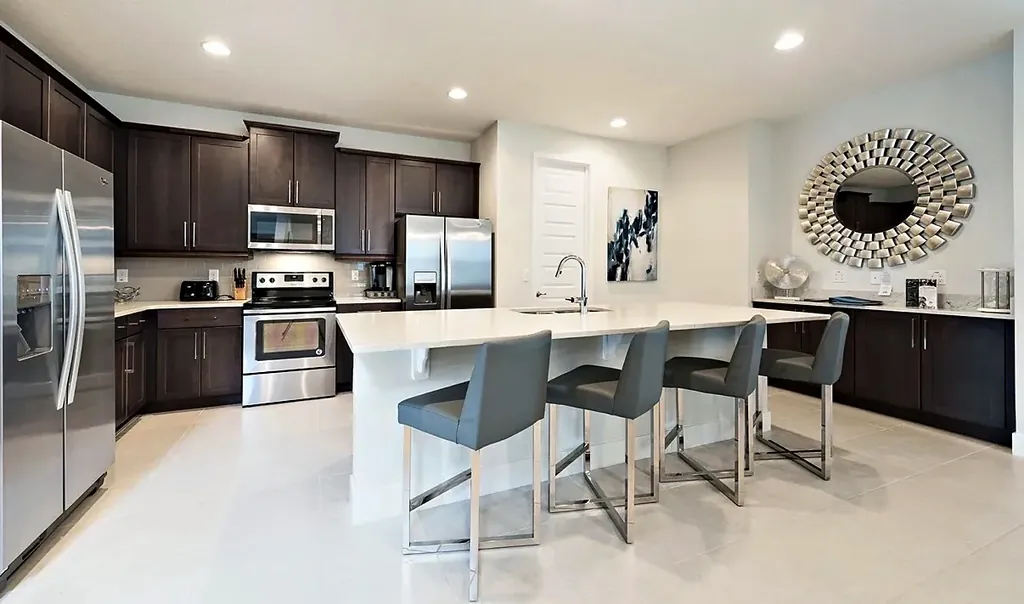
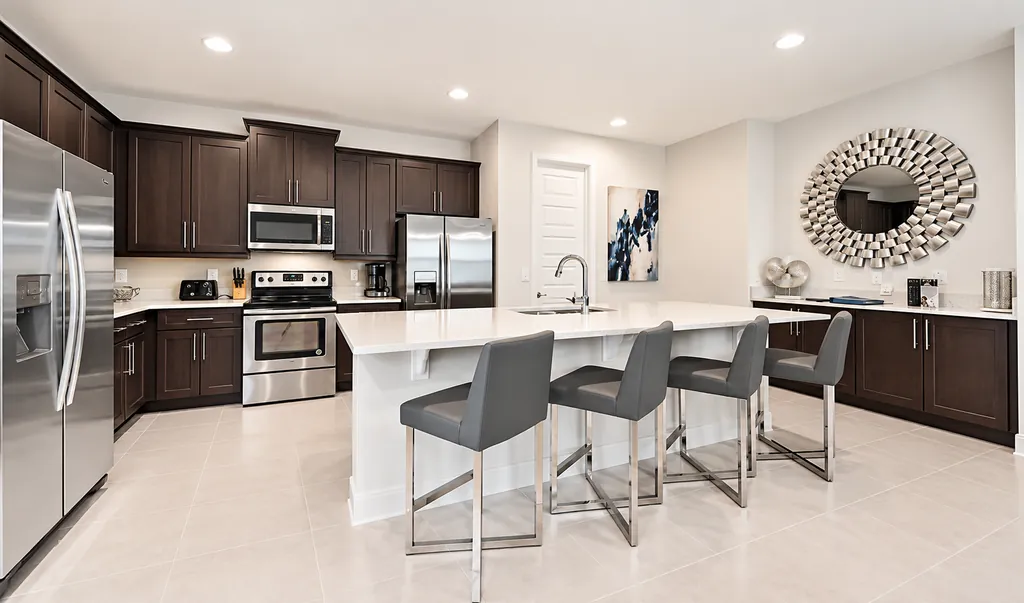
Replace kitchen photo with the enhanced version

diff --git a/index.html b/index.html
@@ -9,7 +9,7 @@
 
   <meta property="og:title" content="Villa Serena · 8-Bedroom Private Pool Villa">
   <meta property="og:description" content="8 bedrooms · 8 bathrooms · 13 beds · private pool. Book your family's Orlando stay direct.">
-  <meta property="og:image" content="assets/img/pool-lanai.jpg?v=19">
+  <meta property="og:image" content="assets/img/pool-lanai.jpg?v=20">
   <meta property="og:type" content="website">
 
   <link rel="icon" href="assets/favicon.svg" type="image/svg+xml">
@@ -17,8 +17,8 @@
   <link rel="preconnect" href="https://fonts.gstatic.com" crossorigin>
   <link href="https://fonts.googleapis.com/css2?family=Newsreader:ital,opsz,wght@0,6..72,400;0,6..72,500;1,6..72,400&family=Instrument+Sans:wght@400;500;600&display=swap" rel="stylesheet">
 
-  <link rel="preload" as="image" href="assets/img/pool-lanai-1616.webp?v=19"
-        imagesrcset="assets/img/pool-lanai-640.webp?v=19 640w, assets/img/pool-lanai-1024.webp?v=19 1024w, assets/img/pool-lanai-1616.webp?v=19 1616w"
+  <link rel="preload" as="image" href="assets/img/pool-lanai-1616.webp?v=20"
+        imagesrcset="assets/img/pool-lanai-640.webp?v=20 640w, assets/img/pool-lanai-1024.webp?v=20 1024w, assets/img/pool-lanai-1616.webp?v=20 1616w"
         imagesizes="100vw" type="image/webp">
   <link rel="stylesheet" href="css/styles.css">
 </head>
@@ -79,9 +79,9 @@
   <div class="hero-media">
     <picture>
       <source type="image/webp"
-              srcset="assets/img/pool-lanai-640.webp?v=19 640w, assets/img/pool-lanai-1024.webp?v=19 1024w, assets/img/pool-lanai-1616.webp?v=19 1616w"
+              srcset="assets/img/pool-lanai-640.webp?v=20 640w, assets/img/pool-lanai-1024.webp?v=20 1024w, assets/img/pool-lanai-1616.webp?v=20 1616w"
               sizes="100vw">
-      <img src="assets/img/pool-lanai.jpg?v=19" alt="The villa's private pool and spa with sun loungers and a covered lanai" width="1616" height="967" fetchpriority="high">
+      <img src="assets/img/pool-lanai.jpg?v=20" alt="The villa's private pool and spa with sun loungers and a covered lanai" width="1616" height="967" fetchpriority="high">
     </picture>
   </div>
   <div class="hero-shade" aria-hidden="true"></div>
@@ -117,14 +117,14 @@
     <div class="welcome-media reveal">
       <figure class="wm-main">
         <picture>
-          <source type="image/webp" srcset="assets/img/exterior-front-640.webp?v=19 640w, assets/img/exterior-front-1024.webp?v=19 1024w, assets/img/exterior-front-1206.webp?v=19 1206w" sizes="(min-width: 960px) 40vw, 90vw">
-          <img src="assets/img/exterior-front.jpg?v=19" alt="Front exterior of the two-storey villa with a paver driveway" width="1206" height="712" loading="lazy" decoding="async">
+          <source type="image/webp" srcset="assets/img/exterior-front-640.webp?v=20 640w, assets/img/exterior-front-1024.webp?v=20 1024w, assets/img/exterior-front-1206.webp?v=20 1206w" sizes="(min-width: 960px) 40vw, 90vw">
+          <img src="assets/img/exterior-front.jpg?v=20" alt="Front exterior of the two-storey villa with a paver driveway" width="1206" height="712" loading="lazy" decoding="async">
         </picture>
       </figure>
       <figure class="wm-accent">
         <picture>
-          <source type="image/webp" srcset="assets/img/dining-living-640.webp?v=19 640w, assets/img/dining-living-1024.webp?v=19 1024w" sizes="(min-width: 960px) 22vw, 50vw">
-          <img src="assets/img/dining-living.jpg?v=19" alt="Open-plan dining area with a large table and the living room beyond" width="2560" height="1920" loading="lazy" decoding="async">
+          <source type="image/webp" srcset="assets/img/dining-living-640.webp?v=20 640w, assets/img/dining-living-1024.webp?v=20 1024w" sizes="(min-width: 960px) 22vw, 50vw">
+          <img src="assets/img/dining-living.jpg?v=20" alt="Open-plan dining area with a large table and the living room beyond" width="2560" height="1920" loading="lazy" decoding="async">
         </picture>
       </figure>
           </div>
@@ -135,15 +135,15 @@
 <section class="photo-band" aria-label="The kitchen and living room">
   <figure>
     <picture>
-      <source type="image/webp" srcset="assets/img/kitchen-640.webp?v=19 640w, assets/img/kitchen-1024.webp?v=19 1024w, assets/img/kitchen-1206.webp?v=19 1206w" sizes="(min-width: 760px) 50vw, 100vw">
-      <img src="assets/img/kitchen.jpg?v=19" alt="Kitchen with dark cabinets, stainless appliances and an island with four bar stools" width="1206" height="711" loading="lazy" decoding="async">
+      <source type="image/webp" srcset="assets/img/kitchen-640.webp?v=20 640w, assets/img/kitchen-1024.webp?v=20 1024w, assets/img/kitchen-1600.webp?v=20 1600w, assets/img/kitchen-1634.webp?v=20 1634w" sizes="(min-width: 760px) 50vw, 100vw">
+      <img src="assets/img/kitchen.jpg?v=20" alt="Kitchen with dark cabinets, stainless appliances and an island with four bar stools" width="1634" height="962" loading="lazy" decoding="async">
     </picture>
     <figcaption>Kitchen</figcaption>
   </figure>
   <figure>
     <picture>
-      <source type="image/webp" srcset="assets/img/living-room-640.webp?v=19 640w, assets/img/living-room-1024.webp?v=19 1024w, assets/img/living-room-1536.webp?v=19 1536w" sizes="(min-width: 760px) 50vw, 100vw">
-      <img src="assets/img/living-room.jpg?v=19" alt="Living room with sectional sofa and sliding doors to the pool" width="1536" height="1024" loading="lazy" decoding="async">
+      <source type="image/webp" srcset="assets/img/living-room-640.webp?v=20 640w, assets/img/living-room-1024.webp?v=20 1024w, assets/img/living-room-1536.webp?v=20 1536w" sizes="(min-width: 760px) 50vw, 100vw">
+      <img src="assets/img/living-room.jpg?v=20" alt="Living room with sectional sofa and sliding doors to the pool" width="1536" height="1024" loading="lazy" decoding="async">
     </picture>
     <figcaption>Living room</figcaption>
   </figure>
@@ -250,20 +250,20 @@
     <div class="villa-band reveal">
       <figure>
         <picture>
-          <source type="image/webp" srcset="assets/img/bedroom-twin-beds-640.webp?v=19 640w, assets/img/bedroom-twin-beds-1024.webp?v=19 1024w, assets/img/bedroom-twin-beds-1446.webp?v=19 1446w" sizes="(min-width: 960px) 33vw, 100vw">
-          <img src="assets/img/bedroom-twin-beds.jpg?v=19" alt="Bedroom with two beds and a tall upholstered headboard" width="1446" height="1087" loading="lazy" decoding="async">
+          <source type="image/webp" srcset="assets/img/bedroom-twin-beds-640.webp?v=20 640w, assets/img/bedroom-twin-beds-1024.webp?v=20 1024w, assets/img/bedroom-twin-beds-1446.webp?v=20 1446w" sizes="(min-width: 960px) 33vw, 100vw">
+          <img src="assets/img/bedroom-twin-beds.jpg?v=20" alt="Bedroom with two beds and a tall upholstered headboard" width="1446" height="1087" loading="lazy" decoding="async">
         </picture>
       </figure>
       <figure>
         <picture>
-          <source type="image/webp" srcset="assets/img/bunk-room-640.webp?v=19 640w, assets/img/bunk-room-1024.webp?v=19 1024w, assets/img/bunk-room-1600.webp?v=19 1600w" sizes="(min-width: 960px) 33vw, 100vw">
-          <img src="assets/img/bunk-room.jpg?v=19" alt="Kids' bunk room with a mural wall" width="2560" height="1920" loading="lazy" decoding="async">
+          <source type="image/webp" srcset="assets/img/bunk-room-640.webp?v=20 640w, assets/img/bunk-room-1024.webp?v=20 1024w, assets/img/bunk-room-1600.webp?v=20 1600w" sizes="(min-width: 960px) 33vw, 100vw">
+          <img src="assets/img/bunk-room.jpg?v=20" alt="Kids' bunk room with a mural wall" width="2560" height="1920" loading="lazy" decoding="async">
         </picture>
       </figure>
       <figure>
         <picture>
-          <source type="image/webp" srcset="assets/img/bathroom-double-vanity-640.webp?v=19 640w, assets/img/bathroom-double-vanity-1024.webp?v=19 1024w, assets/img/bathroom-double-vanity-1600.webp?v=19 1600w, assets/img/bathroom-double-vanity-1645.webp?v=19 1645w" sizes="(min-width: 960px) 33vw, 100vw">
-          <img src="assets/img/bathroom-double-vanity.jpg?v=19" alt="Bathroom with a double vanity, glass shower and tub" width="1645" height="956" loading="lazy" decoding="async">
+          <source type="image/webp" srcset="assets/img/bathroom-double-vanity-640.webp?v=20 640w, assets/img/bathroom-double-vanity-1024.webp?v=20 1024w, assets/img/bathroom-double-vanity-1600.webp?v=20 1600w, assets/img/bathroom-double-vanity-1645.webp?v=20 1645w" sizes="(min-width: 960px) 33vw, 100vw">
+          <img src="assets/img/bathroom-double-vanity.jpg?v=20" alt="Bathroom with a double vanity, glass shower and tub" width="1645" height="956" loading="lazy" decoding="async">
         </picture>
       </figure>
     </div>
@@ -277,9 +277,9 @@
       <div class="amen-feature reveal">
         <figure class="amen-photo">
           <picture>
-            <source type="image/webp" media="(min-width: 641px) and (max-width: 960px)" srcset="assets/img/pool-deck-640.webp?v=19 640w, assets/img/pool-deck-1024.webp?v=19 1024w, assets/img/pool-deck-1206.webp?v=19 1206w" sizes="100vw">
-            <source type="image/webp" srcset="assets/img/pool-deck-tall-640.webp?v=19 640w, assets/img/pool-deck-tall-1024.webp?v=19 1024w, assets/img/pool-deck-tall-1086.webp?v=19 1086w" sizes="(min-width: 960px) 45vw, 100vw">
-            <img src="assets/img/pool-deck-tall.jpg?v=19" alt="Pool deck with spa, loungers and outdoor dining under a blue sky" width="1086" height="1448" loading="lazy" decoding="async">
+            <source type="image/webp" media="(min-width: 641px) and (max-width: 960px)" srcset="assets/img/pool-deck-640.webp?v=20 640w, assets/img/pool-deck-1024.webp?v=20 1024w, assets/img/pool-deck-1206.webp?v=20 1206w" sizes="100vw">
+            <source type="image/webp" srcset="assets/img/pool-deck-tall-640.webp?v=20 640w, assets/img/pool-deck-tall-1024.webp?v=20 1024w, assets/img/pool-deck-tall-1086.webp?v=20 1086w" sizes="(min-width: 960px) 45vw, 100vw">
+            <img src="assets/img/pool-deck-tall.jpg?v=20" alt="Pool deck with spa, loungers and outdoor dining under a blue sky" width="1086" height="1448" loading="lazy" decoding="async">
           </picture>
           <figcaption>
             <strong>Fully private pool area</strong>
@@ -337,29 +337,29 @@
     <div class="amen-strip reveal" aria-label="More of the villa">
       <figure>
         <picture>
-          <source type="image/webp" srcset="assets/img/sitting-area-640.webp?v=19 640w, assets/img/sitting-area-1024.webp?v=19 1024w, assets/img/sitting-area-1600.webp?v=19 1600w" sizes="(min-width: 960px) 25vw, 70vw">
-          <img src="assets/img/sitting-area.jpg?v=19" alt="Sitting area with two armchairs and large blue and gold artwork" width="2560" height="1920" loading="lazy" decoding="async">
+          <source type="image/webp" srcset="assets/img/sitting-area-640.webp?v=20 640w, assets/img/sitting-area-1024.webp?v=20 1024w, assets/img/sitting-area-1600.webp?v=20 1600w" sizes="(min-width: 960px) 25vw, 70vw">
+          <img src="assets/img/sitting-area.jpg?v=20" alt="Sitting area with two armchairs and large blue and gold artwork" width="2560" height="1920" loading="lazy" decoding="async">
         </picture>
         <figcaption>Sitting area</figcaption>
       </figure>
       <figure>
         <picture>
-          <source type="image/webp" srcset="assets/img/home-theater-640.webp?v=19 640w, assets/img/home-theater-1024.webp?v=19 1024w, assets/img/home-theater-1206.webp?v=19 1206w" sizes="(min-width: 960px) 25vw, 70vw">
-          <img src="assets/img/home-theater.jpg?v=19" alt="Home theater with a large screen and recliner seating" width="1206" height="800" loading="lazy" decoding="async">
+          <source type="image/webp" srcset="assets/img/home-theater-640.webp?v=20 640w, assets/img/home-theater-1024.webp?v=20 1024w, assets/img/home-theater-1206.webp?v=20 1206w" sizes="(min-width: 960px) 25vw, 70vw">
+          <img src="assets/img/home-theater.jpg?v=20" alt="Home theater with a large screen and recliner seating" width="1206" height="800" loading="lazy" decoding="async">
         </picture>
         <figcaption>Home theater</figcaption>
       </figure>
       <figure>
         <picture>
-          <source type="image/webp" srcset="assets/img/game-room-640.webp?v=19 640w, assets/img/game-room-1024.webp?v=19 1024w, assets/img/game-room-1600.webp?v=19 1600w" sizes="(min-width: 960px) 25vw, 70vw">
-          <img src="assets/img/game-room.jpg?v=19" alt="Game room with table tennis, foosball and an arcade cabinet" width="2560" height="1920" loading="lazy" decoding="async">
+          <source type="image/webp" srcset="assets/img/game-room-640.webp?v=20 640w, assets/img/game-room-1024.webp?v=20 1024w, assets/img/game-room-1600.webp?v=20 1600w" sizes="(min-width: 960px) 25vw, 70vw">
+          <img src="assets/img/game-room.jpg?v=20" alt="Game room with table tennis, foosball and an arcade cabinet" width="2560" height="1920" loading="lazy" decoding="async">
         </picture>
         <figcaption>Game room</figcaption>
       </figure>
       <figure>
         <picture>
-          <source type="image/webp" srcset="assets/img/dining-room-640.webp?v=19 640w, assets/img/dining-room-1024.webp?v=19 1024w, assets/img/dining-room-1600.webp?v=19 1600w" sizes="(min-width: 960px) 25vw, 70vw">
-          <img src="assets/img/dining-room.jpg?v=19" alt="Dining room with a large white table and chandelier" width="2560" height="1920" loading="lazy" decoding="async">
+          <source type="image/webp" srcset="assets/img/dining-room-640.webp?v=20 640w, assets/img/dining-room-1024.webp?v=20 1024w, assets/img/dining-room-1600.webp?v=20 1600w" sizes="(min-width: 960px) 25vw, 70vw">
+          <img src="assets/img/dining-room.jpg?v=20" alt="Dining room with a large white table and chandelier" width="2560" height="1920" loading="lazy" decoding="async">
         </picture>
         <figcaption>Dining</figcaption>
       </figure>
@@ -431,8 +431,8 @@
 <section class="book" id="book">
   <div class="book-media" aria-hidden="true">
     <picture>
-      <source type="image/webp" srcset="assets/img/exterior-front-640.webp?v=19 640w, assets/img/exterior-front-1024.webp?v=19 1024w, assets/img/exterior-front-1206.webp?v=19 1206w" sizes="100vw">
-      <img src="assets/img/exterior-front.jpg?v=19" alt="" width="1206" height="712" loading="lazy" decoding="async">
+      <source type="image/webp" srcset="assets/img/exterior-front-640.webp?v=20 640w, assets/img/exterior-front-1024.webp?v=20 1024w, assets/img/exterior-front-1206.webp?v=20 1206w" sizes="100vw">
+      <img src="assets/img/exterior-front.jpg?v=20" alt="" width="1206" height="712" loading="lazy" decoding="async">
     </picture>
   </div>
   <div class="book-shade" aria-hidden="true"></div>

diff --git a/js/main.js b/js/main.js
@@ -18,7 +18,7 @@ const BOOKING_URL = "";
 const PHOTOS = [
   { slug: "pool-lanai",            cat: "outdoor",   caption: "Private pool, spa & covered lanai",  w: 1616, size: "big", ws: [640, 1024, 1616] },
   { slug: "exterior-front",        cat: "outdoor",   caption: "Welcome to the villa",               w: 1206, size: "wide" },
-  { slug: "kitchen",               cat: "living",    caption: "Fully equipped kitchen",             w: 1206 },
+  { slug: "kitchen",               cat: "living",    caption: "Fully equipped kitchen",             w: 1634, ws: [640, 1024, 1600, 1634] },
   { slug: "home-theater",          cat: "fun",       caption: "Home theater",                       w: 1206 },
   { slug: "living-room",           cat: "living",    caption: "Living room",                        w: 1536, size: "wide", ws: [640, 1024, 1536] },
   { slug: "dining-room",           cat: "living",    caption: "Dining room",                        w: 2560 },
@@ -45,7 +45,7 @@ const PHOTOS = [
 ];
 const INITIAL_COUNT = 4;
 const IMG = "assets/img/";
-const IMG_V = "?v=19"; // bump when photos change so browsers fetch the new files
+const IMG_V = "?v=20"; // bump when photos change so browsers fetch the new files
 
 const widthsFor = (p) => p.ws || (p.w > 1206 ? [640, 1024, 1600, 2200] : [640, 1024, 1206]);
 const srcset = (p, max = Infinity) =>

diff --git a/README.md b/README.md
@@ -104,4 +104,4 @@ it, then repeat the polish and the wall recolour.
 
 Browsers keep photos for a day (see `vercel.json`). When a photo changes, bump the
 version tag so visitors get the new file right away: `IMG_V` at the top of `js/main.js`
-and every `?v=` in `index.html` (find and replace `?v=19` with `?v=20`).
+and every `?v=` in `index.html` (find and replace `?v=20` with `?v=21`).
